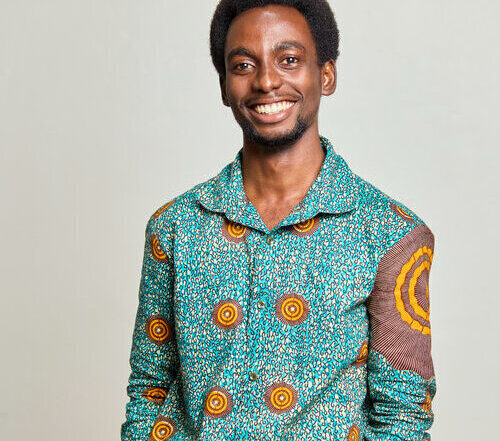
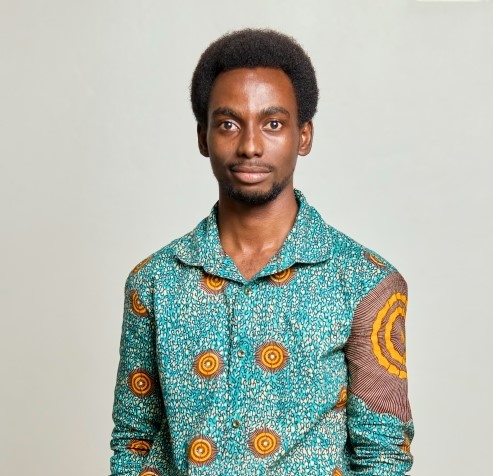
added team

diff --git a/services.html b/services.html
@@ -58,17 +58,16 @@
                           Regular and One off Domestic Cleaning
                       </div> -->
             <div class="masthead-heading text-uppercase">
-                OUR SERVICES
+                "EMPOWERING YOUR JOURNEY"
             </div>
             <div class="masthead-paragraph">
                 <p>
-                    EMPOWERING YOUR GLOBAL ASPIRATIONS <br /><br />
+                    <!-- EMPOWERING YOUR GLOBAL ASPIRATIONS <br /><br /> -->
                     IMMIGRATION SERVICES FOR GHANAIANS AND NIGERIANS INTO FRANCE
                 </p>
             </div>
             <h4></h4>
             <a class="btn btn-primary btn-xl text-uppercase" href="#contact">Contact Us Now</a>
-
         </div>
     </header>
     <!-- Services-->
@@ -80,13 +79,11 @@
                 </h2>
                 <h3 class="section-subheading1">Professional Immigration Services</h3>
                 <h6 class="section-subheading text-muted">
-                    At Autour Du Monde Consult, we pride ourselves on tailoring
-                    immigration solutions to meet your specific needs. Our expert team
-                    ensures the highest standards, providing "peace of mind" throughout
-                    the process. Whether from Ghana or Nigeria, we empower you to
-                    embrace new opportunities abroad. Contact us for personalized
-                    assistance with visas, documentation, and relocation logistics. Your
-                    brighter future starts here.
+                    We are dedicated to delivering top-notch immigration
+                    services that cater to your unique requirements. Our seasoned team is committed to
+                    upholding the highest standards, ensuring a seamless experience every step of the way.
+                    Whether you're based in Ghana or Nigeria, we're here to empower you to seize exciting
+                    opportunities around the world.
                 </h6>
             </div>
         </div>
@@ -100,11 +97,30 @@
                         <img src="assets/img/services/legal.jpg" alt="Service 1">
                     </div>
                     <div class="service-description">
-                        <p>Lorem ipsum dolor sit amet, consectetur adipiscing elit. Nulla faucibus enim id tortor
-                            facilisis.
-                            Lorem ipsum dolor sit amet consectetur adipisicing elit. Sunt voluptatibus consequatur illo,
-                            sapiente dignissimos iure expedita eum modi soluta unde praesentium libero enim laudantium.
-                            At blanditiis vel sit! Soluta, temporibus!
+                        <p>
+                            <b>Visa Solutions with Expertise:</b> <br>
+                            Wave Goodbye to Hassles as We Handle Your Visa with Expertise. <br><br>
+
+                            <b>Passport Renewals Made Simple:</b> <br>
+                            Leave It to Us, Your Immigrant Passport Partners.<br><br>
+
+                            <b>Comprehensive Settlement Guidance:</b><br>
+                            Turn to Our Expert Advisors for Travel Documents and Smooth Settlement.<br><br>
+
+                            <b>Firsthand Legal Consultation:</b> <br>
+                            Clear Insights on Legal Issues and Immigration Law.<br><br>
+
+                            <b>Guidance through Divorce:</b> <br>
+                            Navigating Life's Changes with Compassionate Divorce Assistance.<br><br>
+
+                            <b>Bilingual Legal Insights:</b> <br>
+                            Navigate French and English Legal Systems with Our Expertise.<br><br>
+
+                            <b>Trusted Lawyer Recommendations:</b> <br>
+                            Discover Reliable Lawyers Tailored to Your Needs.<br><br>
+
+                            <b>Accompanied Legal Guidance:</b> <br>
+                            Your Legal Journey, Accompanied Every Step of the Way.
                         </p>
                     </div>
 
@@ -114,13 +130,14 @@
                 <h2>TRAVEL CONSULTANCY</h2>
                 <div class="service-details bg-light">
                     <div class="service-description">
-                        <p> 
+                        <p>
                             <b>Visa Mastery Made Simple:</b> <br>
                             Wave Goodbye to Hassles as We Handle Your Visa with Expertise. <br><br>
                             <b>Passport Renewals?</b> <br>
                             Leave It to Us, Your Immigrant Passport Partners. <br><br>
                             <b>Settlement and Travel Document Solutions?</b><br>
-                            Turn to Our Expert Advisors for Comprehensive Travel Documentation and Smooth Settlement Guidance. <br><br>
+                            Turn to Our Expert Advisors for Comprehensive Travel Documentation and Smooth Settlement
+                            Guidance. <br><br>
                             <b>Unlock Investment Opportunities:</b> <br>
                             Connect with Your Trusted Advisors.
                             Elevate Your Ventures with Our Expertise. Let's Connect!"
@@ -138,11 +155,16 @@
                         <img src="assets/img/landing_page/rsz_admin.jpg" alt="Service 3">
                     </div>
                     <div class="service-description">
-                        <p>Lorem ipsum dolor sit amet, consectetur adipiscing elit. Nulla faucibus enim id tortor
-                            facilisis.
-                            Lorem ipsum dolor sit amet consectetur adipisicing elit. Sunt voluptatibus consequatur illo,
-                            sapiente dignissimos iure expedita eum modi soluta unde praesentium libero enim laudantium.
-                            At blanditiis vel sit! Soluta, temporibus!
+                        <p>
+                            <b>Efficient Document Assistance:</b>  <br>
+                            Aid in Filling Official Documents for Demands like Official Stay and Regroupement Familial.
+                            <br><br>
+
+                            <b>Appointment Booking Made Simple:</b> <br>
+                            Secure Appointments to Administrative Offices Hassle-Free. <br><br>
+
+                            <b>Expert Guidance on Administrative Demands:</b> <br>
+                            Navigate Marriage and Legal Stay Regularization with Our In-Depth Advice.
                         </p>
                     </div>
 

diff --git a/about_us.html b/about_us.html
@@ -60,12 +60,11 @@
                           Regular and One off Domestic Cleaning
                       </div> -->
             <div class="masthead-heading text-uppercase">
-                ABOUT US
+                DISCOVER OUR STORY
             </div>
             <div class="masthead-paragraph">
                 <p>
-                    EMPOWERING YOUR GLOBAL ASPIRATIONS <br /><br />
-                    IMMIGRATION SERVICES FOR GHANAIANS AND NIGERIANS INTO FRANCE
+                    FOSTERING INTERNATIONAL DREAMS: OUR IDENTITY AS CATALYSTS FOR GLOBAL PROGRESS
                 </p>
             </div>
             <h4></h4>
@@ -83,13 +82,11 @@
                 </h2>
                 <h3 class="section-subheading1">Professional Immigration Services</h3>
                 <h6 class="section-subheading text-muted">
-                    At Autour Du Monde Consult, we pride ourselves on tailoring
-                    immigration solutions to meet your specific needs. Our expert team
-                    ensures the highest standards, providing "peace of mind" throughout
-                    the process. Whether from Ghana or Nigeria, we empower you to
-                    embrace new opportunities abroad. Contact us for personalized
-                    assistance with visas, documentation, and relocation logistics. Your
-                    brighter future starts here.
+                    Your trusted partner in transforming global aspirations 
+                    into realities. We're dedicated to guiding individuals on life-changing journeys, empowering 
+                    them to seize opportunities worldwide. With a shared passion for international exploration, 
+                    our experienced team bridges the gap between dreams and achievements. Your journey to a world 
+                    of possibilities starts here.
                 </h6>
             </div>
         </div>
@@ -163,25 +160,26 @@
                     <!-- Team Member 1 -->
                     <div class="col-lg-4">
                         <div class="team-member">
-                            <img class="mx-auto rounded-circle" src="assets/img/team/1.jpg" alt="Team Member" />
-                            <h4>Anthony Adjei</h4>
-                            <p class="text-muted">Founder & CEO</p>
+                            <img class="mx-auto rounded-circle" src="assets/img/team/florain.jpg" alt="Team Member" />
+                            <h4>Florain Esnault</h4>
+                            <p class="text-muted">Communication & Legal Expert</p>
                         </div>
                     </div>
+                    
                     <!-- Team Member 2 -->
                     <div class="col-lg-4">
                         <div class="team-member">
-                            <img class="mx-auto rounded-circle" src="assets/img/team/tim.jpg" alt="Team Member" />
-                            <h4>Timothy Yeboah</h4>
-                            <p class="text-muted">Tech Lead</p>
+                            <img class="mx-auto rounded-circle" src="assets/img/team/ega.jpg" alt="Team Member" />
+                            <h4>Anthony Adjei</h4>
+                            <p class="text-muted">Founder & CEO</p>
                         </div>
                     </div>
                     <!-- Team Member 3 -->
                     <div class="col-lg-4">
                         <div class="team-member">
-                            <img class="mx-auto rounded-circle" src="assets/img/team/3.jpg" alt="Team Member" />
-                            <h4>Michael Johnson</h4>
-                            <p class="text-muted">Legal Advisor</p>
+                            <img class="mx-auto rounded-circle" src="assets/img/team/tim.jpg" alt="Team Member" />
+                            <h4>Timothy Yeboah</h4>
+                            <p class="text-muted">Tech Lead</p>
                         </div>
                     </div>
                 </div>

diff --git a/css/services.css b/css/services.css
@@ -1,4 +1,6 @@
-
+.btn{
+    margin-top: 50px;
+}
 
 .service-list {
     display: flex;
@@ -52,6 +54,8 @@ footer {
 #service3{
     margin-bottom: 10%;
 }
+
+
 
 @media (max-width: 1000px) {
     .service-details {
